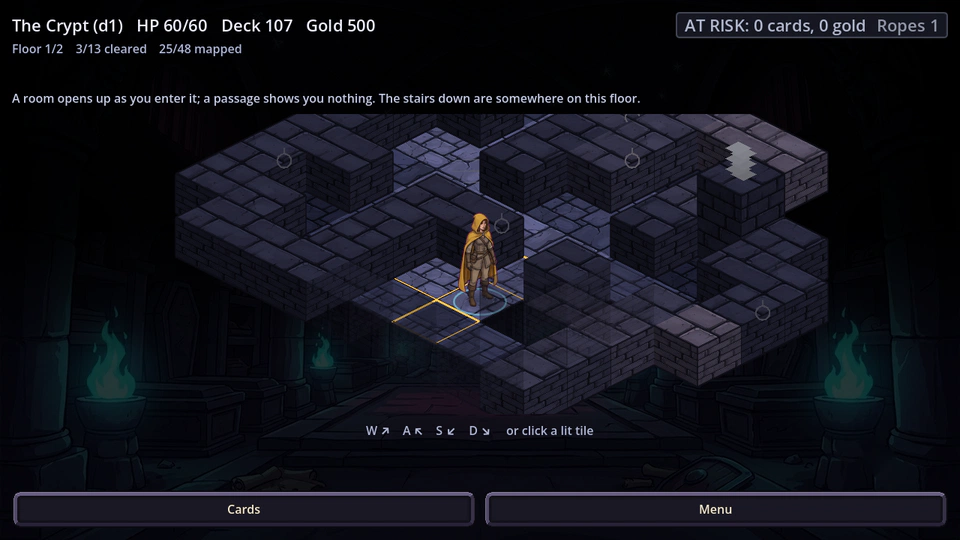
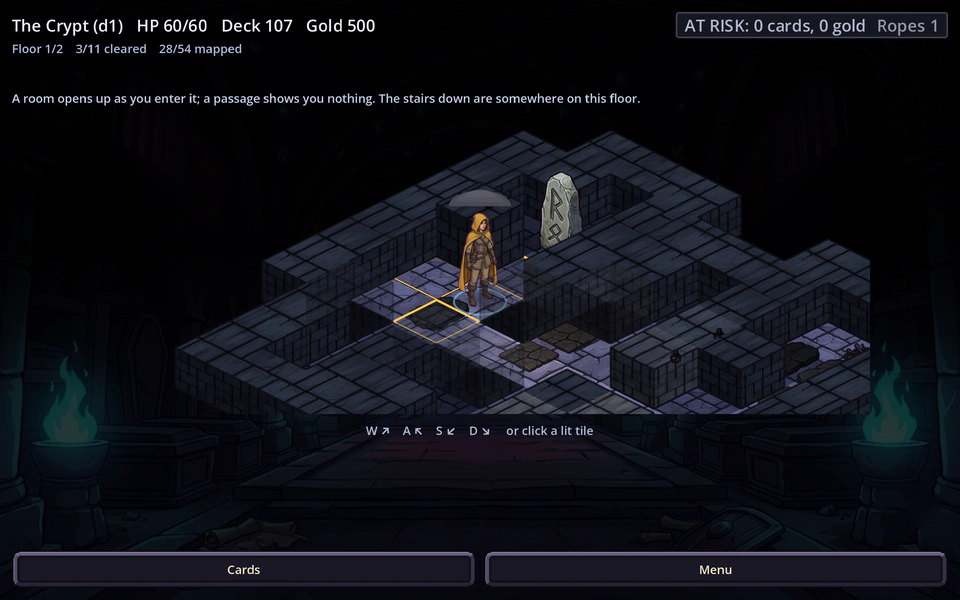
Rebuild the README's crawl picture, and correct the art total
The README's IsoRunExplored.webp was built before the painted walls,
the sixteen props and the size fixes. It showed soft-groove masonry
and ring outlines drawn in code, which is a claim about the game that
stopped being true three commits ago. Only that one of the seven is
rebuilt: the other six are captures of screens I did not touch, and
one of them is the powers screen, which another session is rewriting
right now.

AGENTS.md said 414 wanted, 414 present. It is 430/430/0 -- the list
reopened for the sixteen props (D282) and closed off one sheet (D286).

Two more corrections in the same paragraph. It said art_docs.sh has a
--check mode and no caller; tests/run.sh has been the caller since
D262, and the run fails after the suites pass if either generated
document is out of step. And it said nothing about the generated
things that are NOT checked, which is the part a reader needs: no test
can tell a stale screenshot from a current one, so re-run
screenshots.gd and readme_shots.gd after anything visual lands.

Claude-Session: https://claude.ai/code/session_01MHTEiJ4Rg7aeV3uPFhdWBi

diff --git a/AGENTS.md b/AGENTS.md
@@ -153,24 +153,36 @@ screen, D253/D256 — six owned from the start and two handed over per dungeon b
 D290) · 20 events · 12 dungeons across 5 zones · 4 difficulty rungs · 1 traversal
 model · 7 floor architectures × 4 surfaces × 6 chamber roles × 16 props × 4 landmarks ·
 4 pocket prizes · 3 pocket mouths · 3 toll questions · 45 errands and 16 debts over 44 counters · 3 aspects ·
-24 sound effects · 5 score tracks · 47 test suites. All content is `.tres` data
+24 sound effects · 5 score tracks · 48 test suites. All content is `.tres` data
 plus one catalogue line; adding more is a data task, not a code task.
 
-**Art: 414 files wanted, 414 present, 0 to provide — the list is CLOSED again (D259).**
+**Art: 430 files wanted, 430 present, 0 to provide — the list is CLOSED again (D286).**
 was 205/205/0 at D129, then D131 opened Tier 3b (one illustration per card) and took it to
 205/305; the hundred were painted four to a picture, a 2x2 grid of 4:3 cells tiling one
 4:3 image, which turned a hundred browser requests into twenty-five (D136). It closed at
 386/386/0, was reopened to 386/414 by the 8 relics and 20 powers that D233, D237 and D250
 added, and D259 closed it: every relic and every power now has its own icon and no power
-falls back to a drawn letter. The shopping
+falls back to a drawn letter. It reopened once more to 414/430 for the sixteen isometric
+props D282 put on it — the dressing that varies one floor from the next, drawn in code
+until then — and D286 closed it off one sheet. The shopping
 list is
 generated — `tools/art_docs.sh`, which writes ART_ASSETS.md and ART_PROMPTS.md together
-— so it cannot fall out of step with the catalogues **once it is re-run**, and nothing
-re-runs it. It has a `--check` mode and no caller: the file said 386/386/0 for three
-content passes while the manifest underneath it had known better all along. A generated
-document with no check is a document that is true on the day it is written. Two things in it are not paintings and
+— so it cannot fall out of step with the catalogues **once it is re-run**. It went three
+content passes saying 386/386/0 while the manifest underneath it had known better all
+along, because `--check` existed and nothing called it. A generated
+document with no check is a document that is true on the day it is written, so
+`tests/run.sh` is the caller now (D262): the run fails after the suites pass if either
+generated document is out of step with what generated it. Two things in it are not paintings and
 never will be: the frame kit is computed by `tools/gen_ui_kit.gd`, and the six combat
 effects are drawn at runtime by `scripts/fx.gd`.
+
+**Not everything generated is checked, and the gap is on purpose.** The README's seven
+screenshots (`tools/screenshots.gd`, then `tools/readme_shots.gd`) are a claim about what
+the game looks like now, and no test can tell a stale picture from a current one — re-run
+both after anything visual lands. `tools/readme_downloads.sh` is left out of the gate
+deliberately: it reads the GitHub releases API, and a test run that needs the network
+fails on a train. Run it by hand before a release, which is the only time its subject
+moves.
 
 ## The two ideas that run through everything
 
